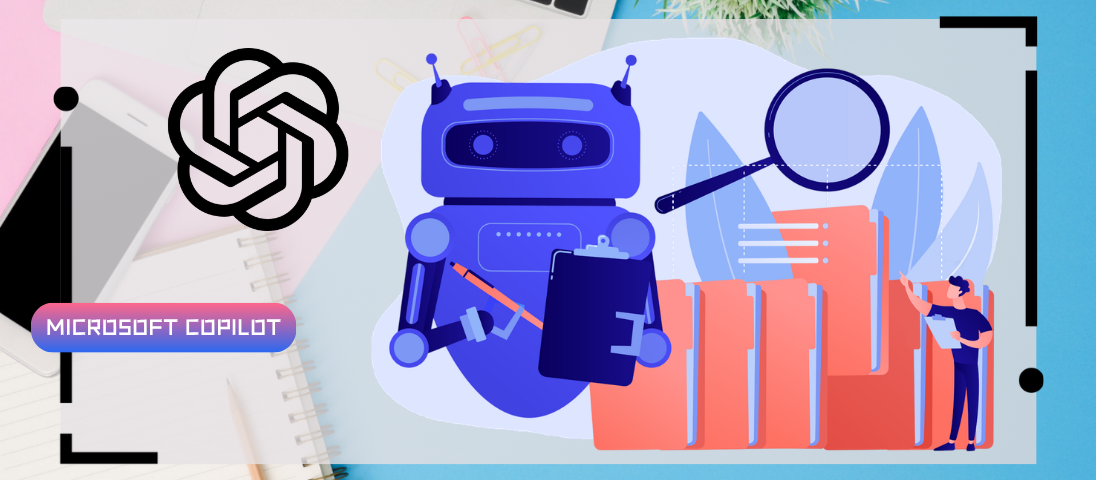
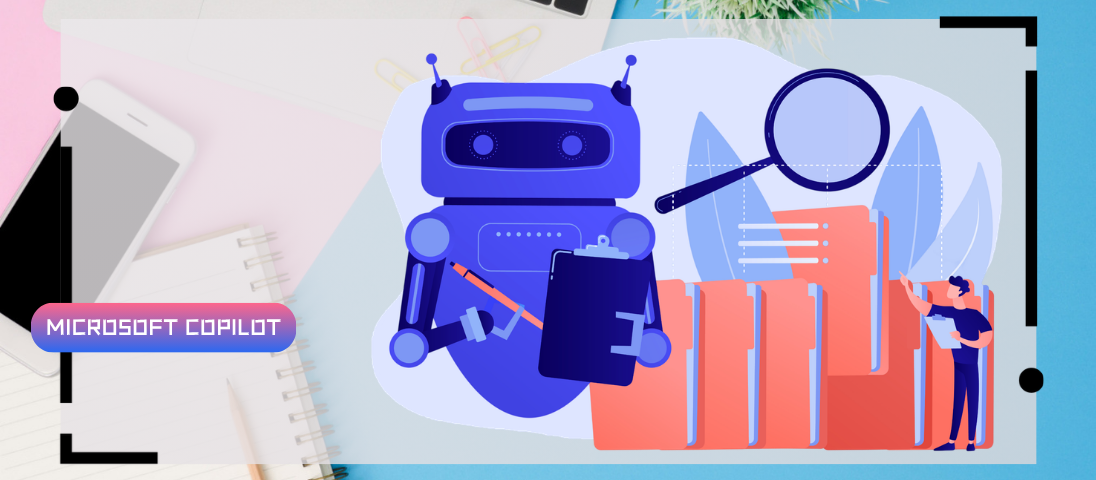
nouvel article + correctifs

Changed region(s): [[0.1551, 0.0938, 0.3412, 0.5]]

diff --git a/src/content/blog/french/2026-10-06-copilot-gpt-6-1-sol-sonnet-5-5-now-available.md b/src/content/blog/french/2026-10-06-copilot-gpt-6-1-sol-sonnet-5-5-now-available.md
@@ -1,0 +1,59 @@
+---
+title: "GPT-6.1 Sol et Claude Sonnet 5.5 disponibles dans Copilot"
+meta_title: ""
+description: ""
+date: 2026-10-06T10:00:00-05:00
+image: "/images/blog/copilot/copilot_gpt_6_1_sol_sonnet_5_5_now_available_thumbnail.png"
+categories: ["Copilot"]
+author: "Maxime Hiez"
+tags: ["IA", "GPT", "Claude", "Sonnet", "Sol", "Copilot Cowork"]
+draft: false
+---
+---
+
+##### Introduction
+Microsoft Copilot déploie, depuis le 30 Septembre 2026, deux nouveaux modèles de pointe : *GPT-6.1 Sol* d'*OpenAI* et *Claude Sonnet 5.5* d'*Anthropic*. Ce déploiement fait suite à celui de *Claude Opus 5.5* et *GPT-6 Sol*, intégrés plus tôt ce mois-ci, et poursuit l'élargissement du choix de modèles offert aux utilisateurs de Copilot.
+
+---
+
+##### Où les modèles sont disponibles
+Le déploiement se fait en deux temps :
+- <u>Copilot Cowork et Copilot Studio</u> : Disponibles dès le 30 Septembre 2026, avec facturation à l'usage
+- <u>Word, Excel, PowerPoint et Copilot Chat</u> : Déploiement progressif dans la semaine suivant l'annonce, inclus dans la licence utilisateur (USL)
+
+Dans Word, Excel, PowerPoint et Chat, des limites d'usage s'appliquent, mais sont dimensionnées pour couvrir l'usage quotidien habituel : la grande majorité des utilisateurs ne devrait pas les atteindre. En approchant une limite, l'utilisateur reçoit une notification dans l'application et peut continuer en basculant sur le mode *Auto* ou en sélectionnant un autre modèle disponible.
+
+---
+
+##### Ce qui change
+L'argument de Microsoft reste le même qu'avec les déploiements précédents : plus de choix de modèles donne plus de flexibilité pour adapter l'expérience à la tâche à accomplir. Avec *Work IQ*, Copilot ancre les réponses de GPT-6.1 Sol et de Claude Sonnet 5.5 dans les fichiers, réunions, conversations et données métier du tenant, dans le respect des permissions existantes.
+
+---
+
+##### Ce que les administrateurs doivent savoir
+Aucune action n'est requise pour que les utilisateurs éligibles accèdent à ces deux modèles, l'accès est activé par défaut. Deux conditions distinctes conditionnent toutefois leur disponibilité réelle :
+- <u>Claude Sonnet 5.5</u> : Nécessite l'activation du sous-traitant *Anthropic* dans l'organisation
+- <u>GPT-6.1 Sol</u> : Nécessite l'activation du sous-traitant *OpenAI* pour certaines surfaces Copilot
+
+Il est recommandé de vérifier l'état de ces deux sous-traitants avant de communiquer la disponibilité des modèles aux utilisateurs, de revoir les lignes directrices internes d'usage de l'IA, et d'informer les équipes de support des notifications de limite d'usage qu'elles pourraient devoir expliquer.
+
+<Notice type="info">Pour suivre l'avancement du déploiement dans votre tenant, consultez l'*AI at Work Roadmap* et les notes de publication Copilot, plutôt que de vous fier à une date unique de disponibilité générale.</Notice>
+
+---
+
+##### Conclusion
+Avec GPT-6.1 Sol et Claude Sonnet 5.5, Copilot continue d'élargir son catalogue multi-fournisseurs sans action requise de la part des administrateurs par défaut. Le seul point de vigilance réel reste la configuration des sous-traitants Anthropic et OpenAI, qui conditionne l'accès effectif à chacun des deux modèles selon la surface Copilot utilisée.
+
+---
+
+##### Sources
+[Microsoft - Techcommunity](https://techcommunity.microsoft.com/blog/microsoft-copilot-blog/available-today-openais-gpt-6-1-sol-and-claude-sonnet-5-5-in-microsoft-copilot/4560801)
+
+[Microsoft Learn - Notes de publication Microsoft 365 Copilot](https://learn.microsoft.com/fr-ca/microsoft-365/copilot/release-notes)
+
+---
+
+
+Avez-vous apprécié cet article ? Vous avez des questions, commentaires ou suggestions, n'hésitez pas à m'envoyer un message depuis le formulaire de contact.
+
+N'oubliez pas de nous suivre et de partager cet article.
